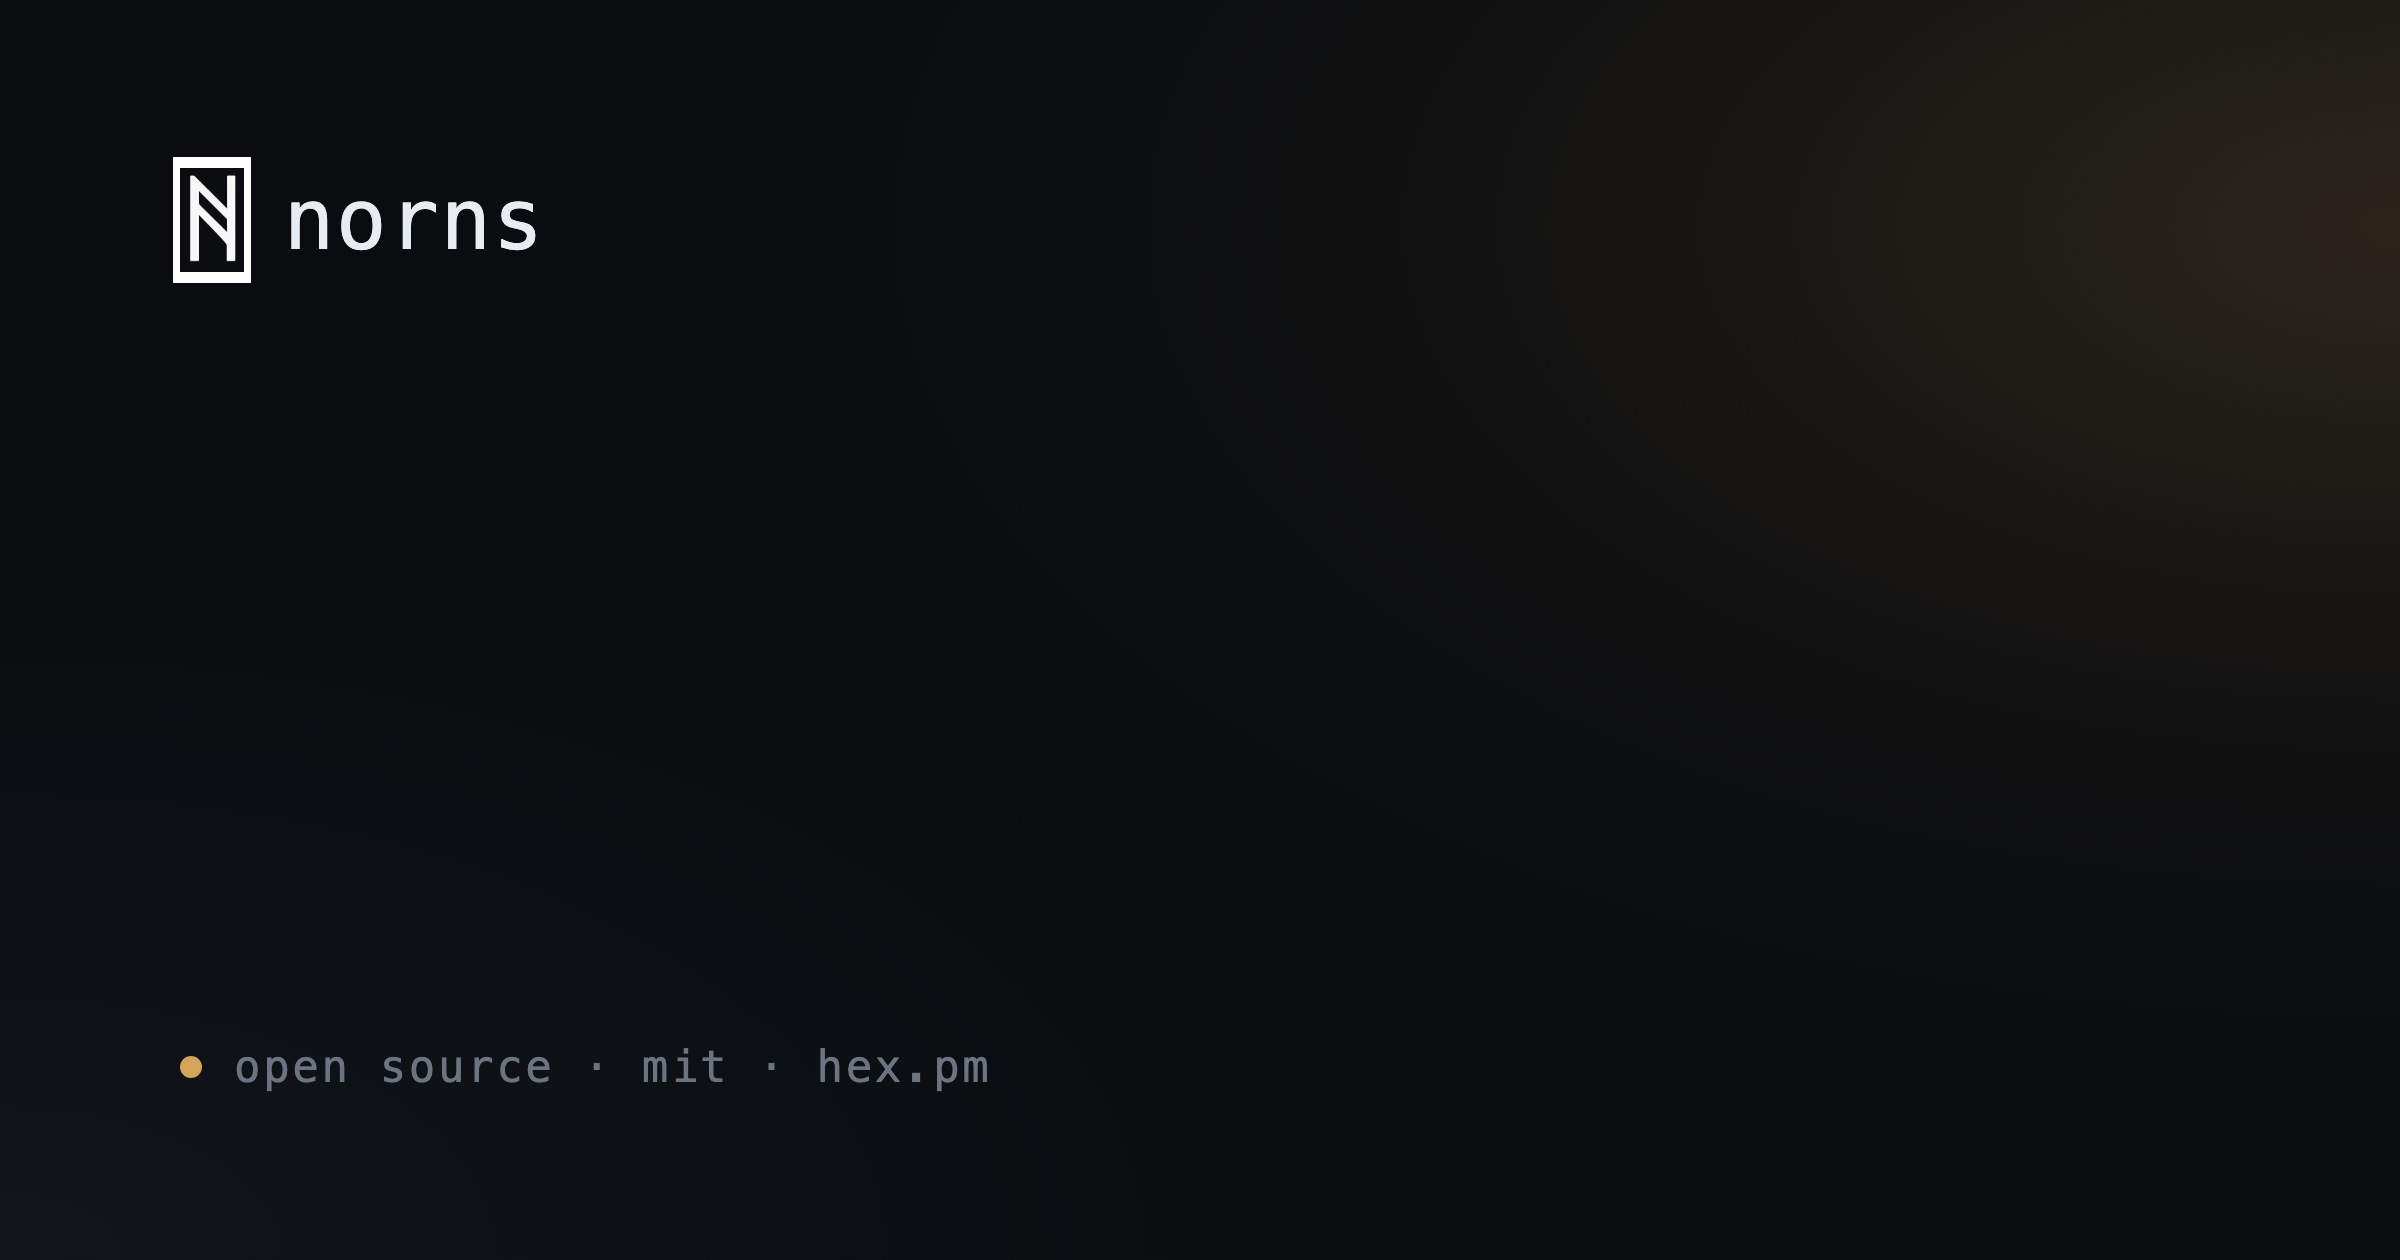
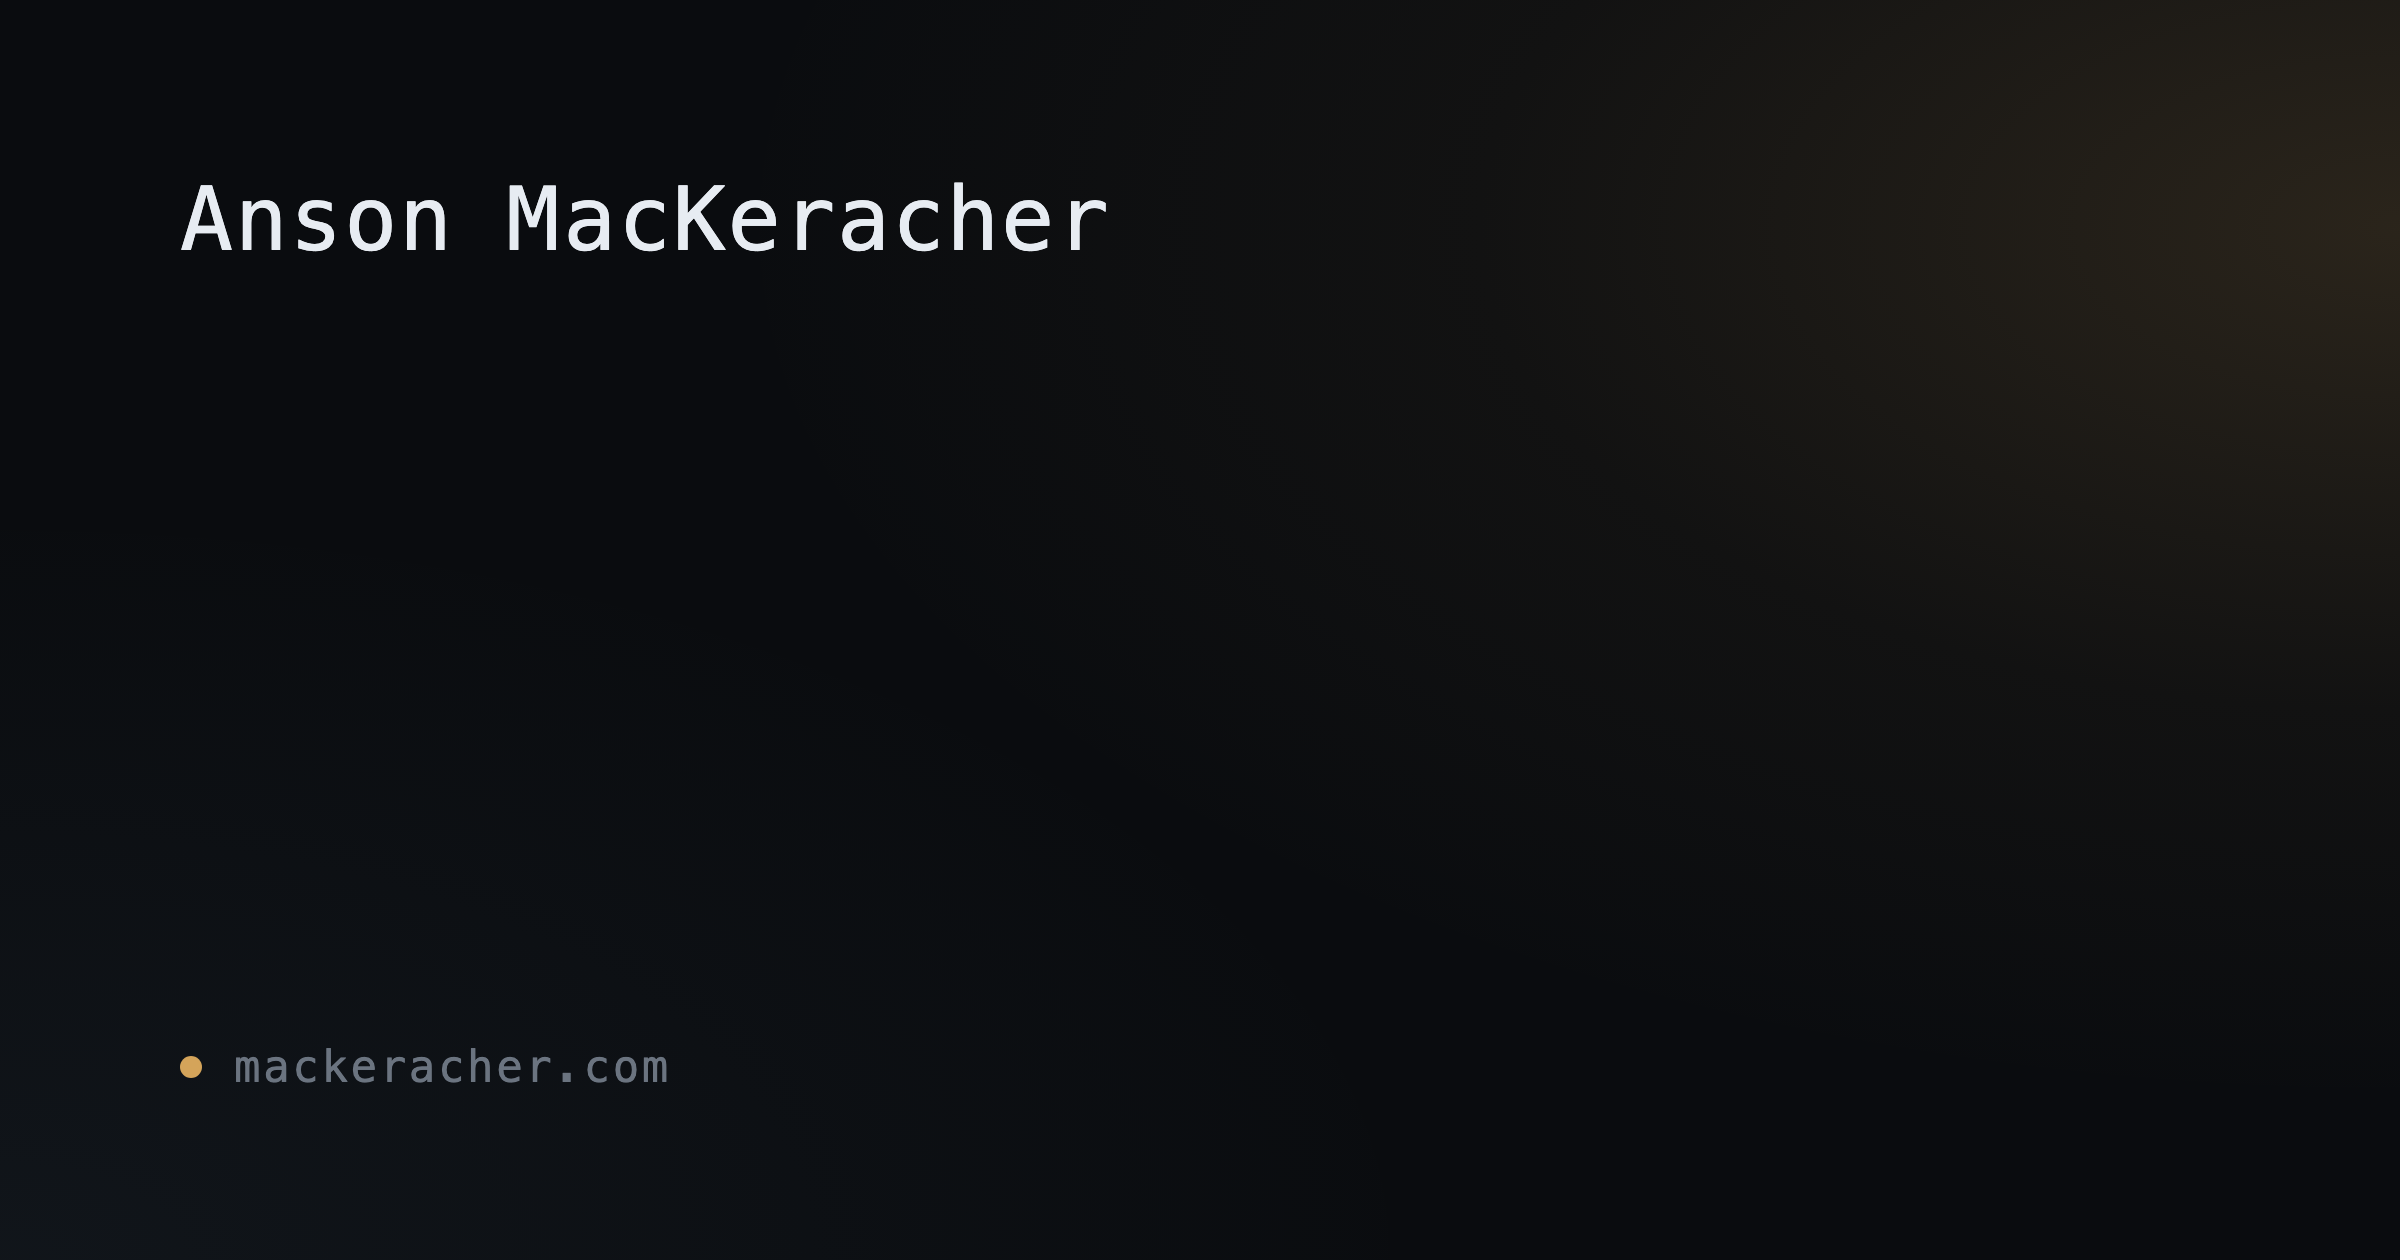
Rebrand auto-generated OG cards to this site, not Norns
The generated background carried the Norns project's brand (rune logo,
"open source · mit · hex.pm" footer), which was wrong for personal
posts unrelated to Norns. It now uses a plain "Anson MacKeracher"
wordmark and a mackeracher.com footer instead. The Norns brand stays
available in template.html for hand-built cards on posts that are
actually about Norns.

Changed region(s): [[0.0625, 0.1238, 0.4688, 0.2476], [0.0938, 0.8357, 0.3125, 0.8667], [0.3438, 0.8357, 0.4062, 0.8667]]

diff --git a/assets/og/bg-template.html b/assets/og/bg-template.html
@@ -23,10 +23,8 @@
 
   .brand {
     position: absolute; left: 90px; top: 84px;
-    display: flex; align-items: center; gap: 20px;
+    font-size: 44px; font-weight: 500; letter-spacing: 0.02em;
   }
-  .brand img { height: 52px; width: auto; filter: url(#logo-white); }
-  .brand span { font-size: 42px; font-weight: 500; letter-spacing: 0.02em; }
 
   .foot {
     position: absolute; left: 90px; bottom: 84px;
@@ -37,17 +35,9 @@
 </style>
 </head>
 <body>
-  <svg width="0" height="0" style="position:absolute" aria-hidden="true">
-    <filter id="logo-white" color-interpolation-filters="sRGB">
-      <feColorMatrix type="matrix" values="0 0 0 0 1  0 0 0 0 1  0 0 0 0 1  -0.333 -0.333 -0.333 0 1"/>
-    </filter>
-  </svg>
   <div class="glow1"></div>
   <div class="glow2"></div>
-  <div class="brand">
-    <img src="norns-glyph.png" alt="">
-    <span>norns</span>
-  </div>
-  <div class="foot"><span class="dot"></span>open source · mit · hex.pm</div>
+  <div class="brand">Anson MacKeracher</div>
+  <div class="foot"><span class="dot"></span>mackeracher.com</div>
 </body>
 </html>

diff --git a/assets/og/README.md b/assets/og/README.md
@@ -6,13 +6,16 @@ matter, run `hugo`, done. A post can opt out of the automatic card by setting
 its own `images` front-matter param (a few posts do this — see "Hand-built
 cards" below).
 
+The default card carries this *site's* brand (mackeracher.com), not the
+Norns project's — see "Two brands" below before reaching for `template.html`.
+
 ## How the automatic pipeline works
 
-1. `assets/og/bg.png` is a pre-rendered 2400x1260 (2x) background: dark brand
-   bg, radial glows, the norns rune logo + wordmark top-left, and the
-   `open source · mit · hex.pm` footer badge. It has no post-specific text on
-   it — it's shared by every auto-generated card. See "Regenerating the
-   background" below if the brand ever changes.
+1. `assets/og/bg.png` is a pre-rendered 2400x1260 (2x) background: dark bg,
+   radial glows, the "Anson MacKeracher" wordmark top-left, and a
+   `mackeracher.com` footer badge. It has no post-specific text on it — it's
+   shared by every auto-generated card. See "Regenerating the background"
+   below if the brand ever changes.
 2. `layouts/partials/og/generate.html` takes a page, word-wraps its `.Title`
    and `.Description` (falling back to the site description if a post has
    none) using `layouts/partials/og/wrap.html`, and stamps them onto a copy
@@ -38,14 +41,30 @@ Non-post pages (home, cv, projects, photos, the posts list) never get a
 generated card — the `og/image.html` partial only fires for pages in the
 `posts` section.
 
+## Two brands
+
+There are two distinct visual identities in this directory — don't mix them
+up:
+
+- **`bg.png` / `bg-template.html`** — this site's brand (mackeracher.com):
+  plain wordmark, no logo, `mackeracher.com` footer. This is what every
+  auto-generated card uses. It's what you want for personal posts, essays,
+  anything that isn't specifically about the Norns project.
+- **`template.html`** — the Norns project's brand (norns rune logo,
+  `open source · mit · hex.pm` footer, matching `nornscode.com`). Only use
+  this for posts that are actually about Norns/its SDKs (the three hand-built
+  cards below all are). Don't apply it to unrelated posts — it reads as
+  mislabeling the post as Norns project content when it's shown in a social
+  preview.
+
 ## Hand-built cards
 
 Three posts (`norns-v0.3`, `introducing-mimir`, `norns-elixir-sdk-v0.1`) have
 a manually authored `images` front-matter param and are never touched by the
-generator. `template.html` in this directory is the original hand-built card
-layout those were based on (headline + subtitle + a bespoke syntax-highlighted
-code panel) — reach for it when a post deserves more than the generic
-headline/subtitle treatment and you're willing to do the render step by hand:
+generator. All three are genuinely about Norns, so they use `template.html`
+(headline + subtitle + a bespoke syntax-highlighted code panel) — reach for
+it when a *Norns* post deserves more than the generic headline/subtitle
+treatment and you're willing to do the render step by hand:
 
 ```sh
 "/Applications/Google Chrome.app/Contents/MacOS/Google Chrome" \
@@ -58,26 +77,27 @@ headline/subtitle treatment and you're willing to do the render step by hand:
 
 Output is 2400x1260 (2x); that's fine for OG (X downscales). This is the
 "worse, manual" fallback path mentioned in the original automation task —
-prefer the automatic pipeline unless `images.Text` fidelity genuinely isn't
-enough for what a specific post needs.
+prefer the automatic pipeline for everything that isn't Norns-branded, or if
+`images.Text` fidelity genuinely isn't enough for what a specific post needs.
 
 ## Regenerating the background
 
-`bg-template.html` is the source for `bg.png` — the same template.html layout
-with the headline/subtitle/code-panel removed, leaving just the logo, glows,
-and footer badge. If the brand changes, edit it and re-render with the same
-headless-Chrome command as above (targeting `bg-template.html`, output to
-`bg.png`), from within this directory so the `norns-glyph.png` relative path
-resolves.
+`bg-template.html` is the source for `bg.png` — same dark bg/glows as
+`template.html`, but with the Norns logo/wordmark/footer swapped for this
+site's own (see "Two brands" above), and no headline/subtitle/code-panel
+(those get stamped in per-post at build time). If the brand changes, edit it
+and re-render with the same headless-Chrome command as above (targeting
+`bg-template.html`, output to `bg.png`).
 
 ## Brand tokens
 
 bg `#0a0c0f` · text `#e7ecf2` · secondary `#aab2bd` · muted `#6b7480` ·
 accent gold `#d4a45a` · blue `#7ca8d1` · monospace throughout (JetBrains
-Mono). Canonical layout reference: `nornscode.com/assets/og.svg`.
+Mono). Shared between both brands above; only the wordmark/logo and footer
+text differ.
 
 `norns-glyph.png` is the norns rune, center-cropped from
-`nornscode.com/assets/norns-logo.png` to remove margins. It's a black glyph
-on white; both `template.html` and `bg-template.html` whiten it with an
-inline SVG `feColorMatrix` luminance filter (a naive `invert` yields a white
-square).
+`nornscode.com/assets/norns-logo.png` to remove margins, used only by
+`template.html` (the Norns brand). It's a black glyph on white; whitened with
+an inline SVG `feColorMatrix` luminance filter (a naive `invert` yields a
+white square).
